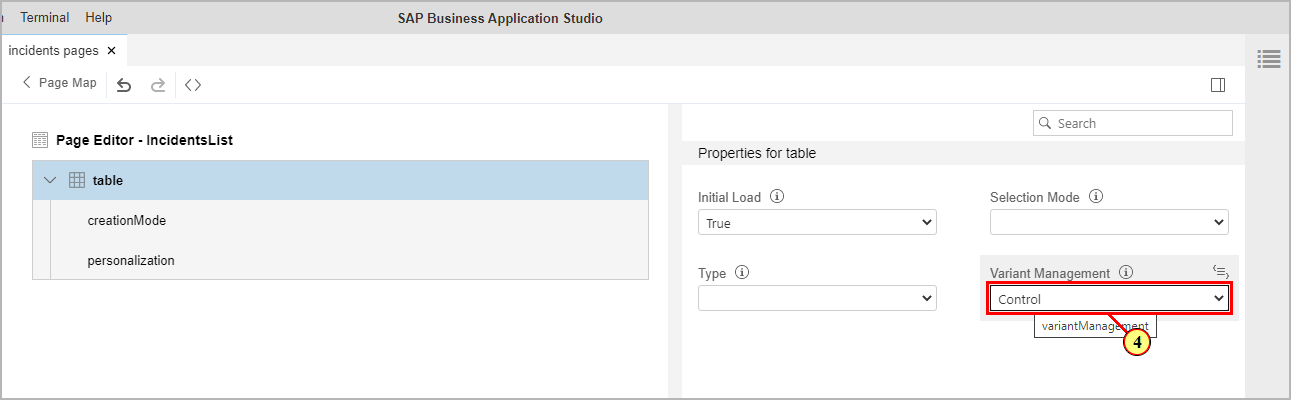
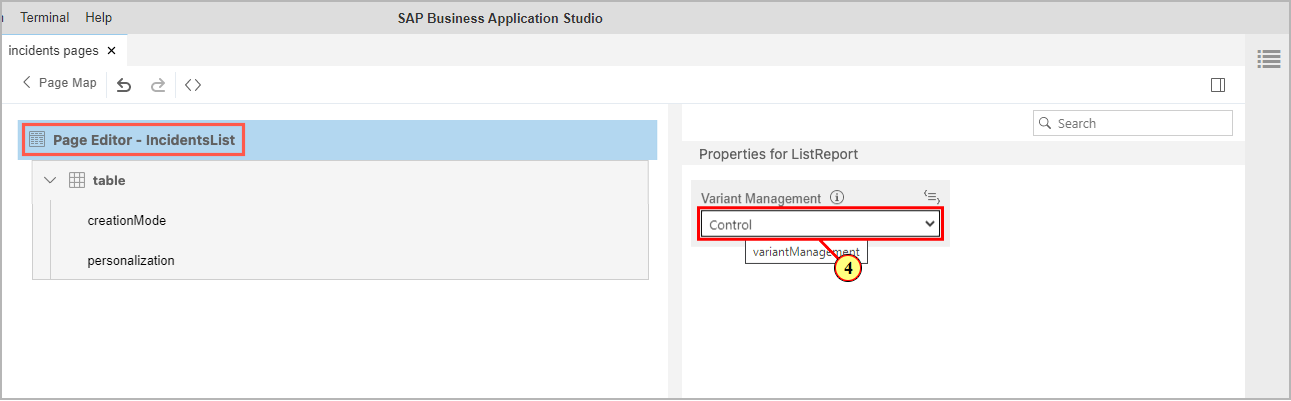
readme updated

diff --git a/exercises/ex3/README.md b/exercises/ex3/README.md
@@ -41,7 +41,7 @@ With it, all personalizations of visible selection fields and table columns can 
 saved as a presentation variant.\
 With the Page Map, you can switch to control level variant management.
 This allows separate management of filter and table variants on the List Report page.\
-(4) In the Page Editor properties for table view, open drop down box **Variant Management** and select **Control**.
+(4) In the Page Editor properties for ListReport, open drop down box **Variant Management** and select **Control**.
 
 ![SAP Business Application Studio - Google
 Chrome](./images/image7.png)
